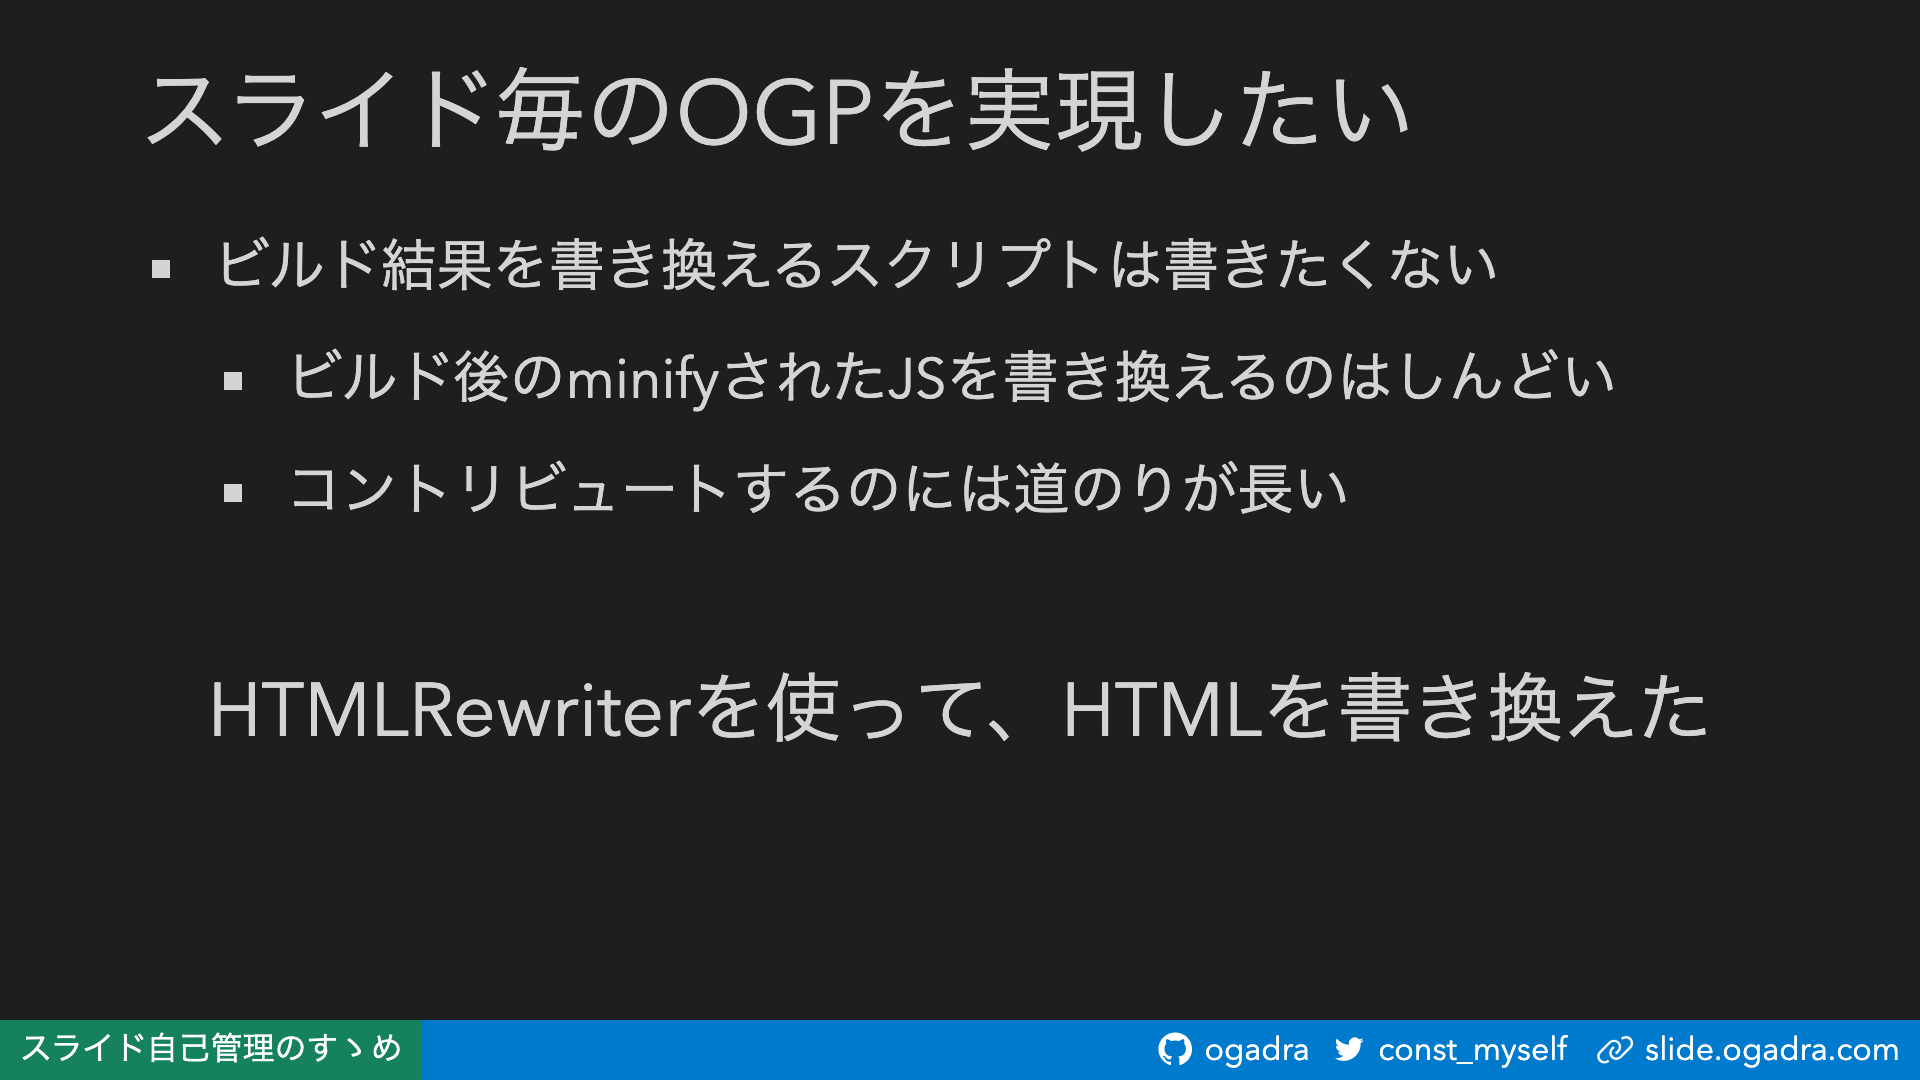
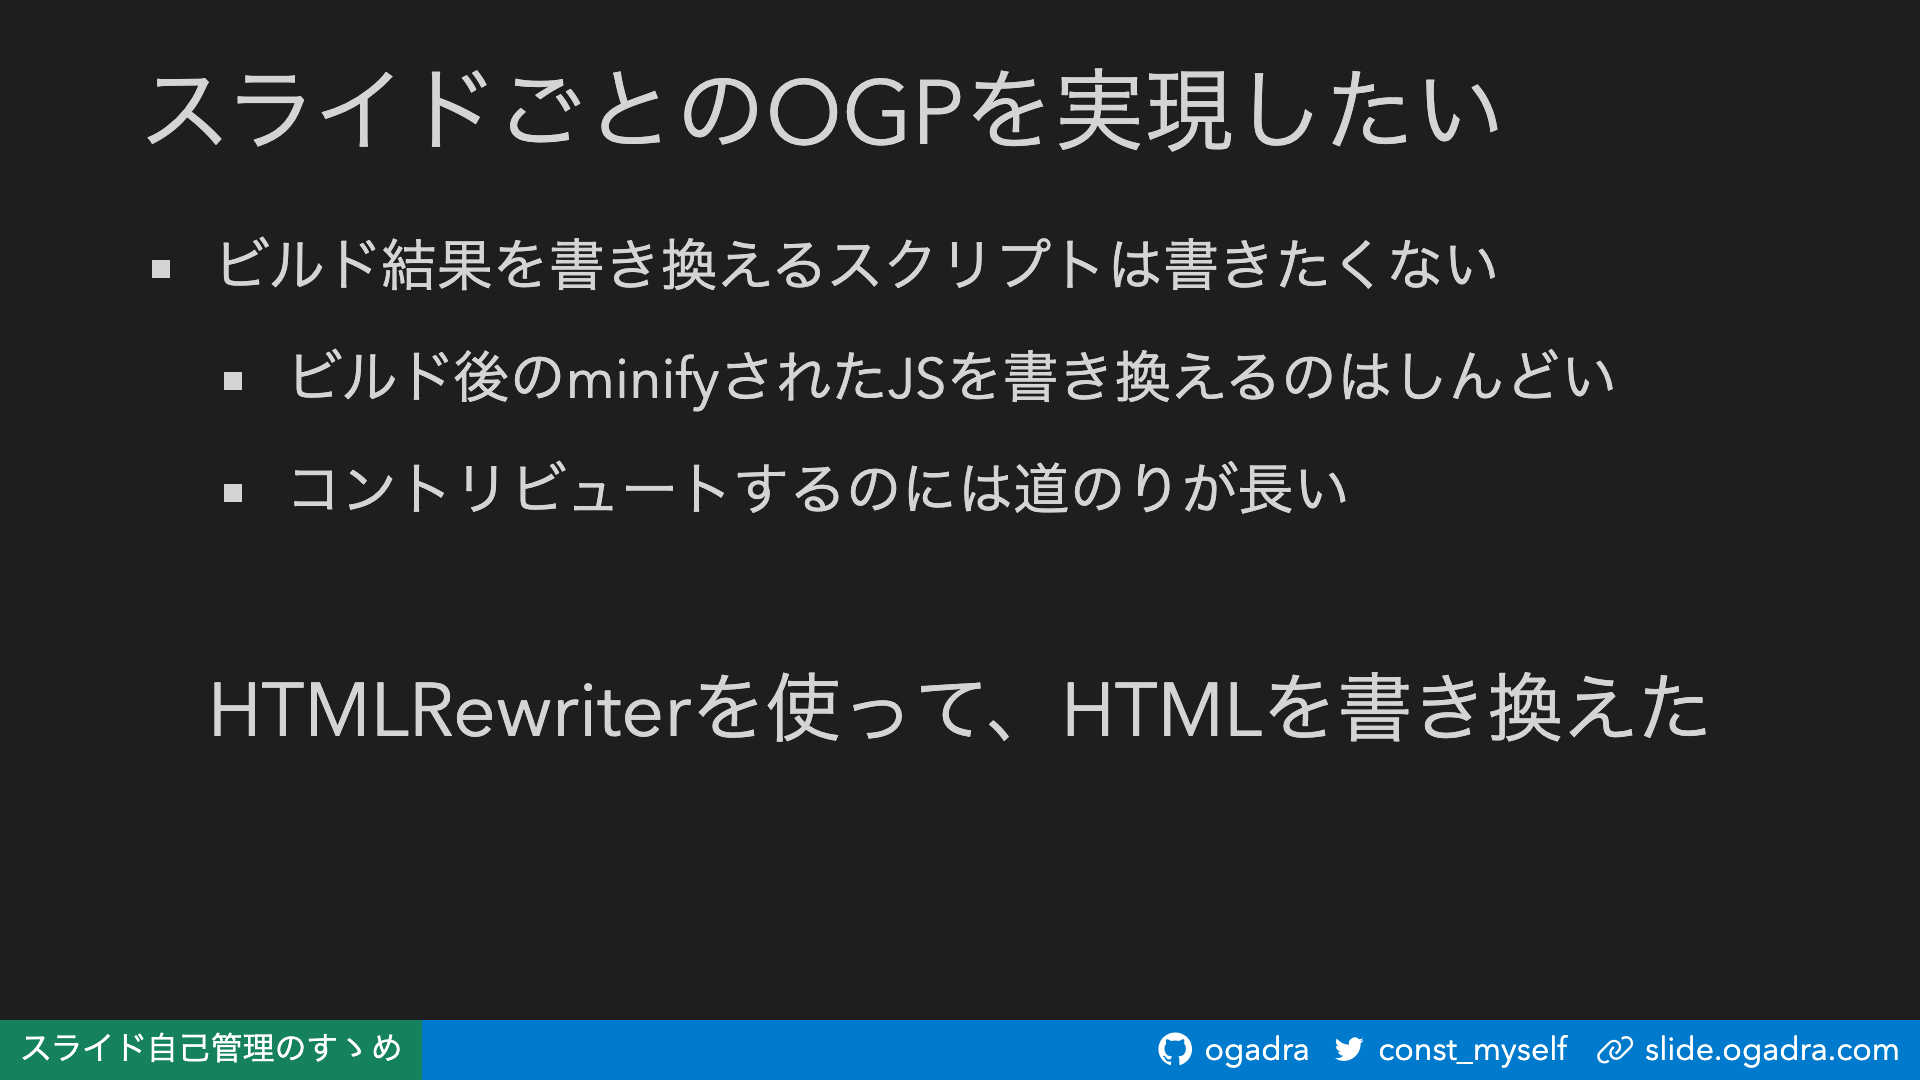
♻ Use ubiquitous language

Changed region(s): [[0.25, 0.0611, 0.7812, 0.1528]]

diff --git a/slidev/self-hosting-slides/slides.md b/slidev/self-hosting-slides/slides.md
@@ -81,11 +81,11 @@ https://slide.ogadra.com
 
 ---
 
-## 主な機能
+## 主な機能・特徴
 
 - 複数スライドをmonorepoで管理
 - mainブランチにマージしたら自動でデプロイ
-- スライド毎にOGPを設定
+- スライドごとにOGPを設定
 
 ---
 
@@ -119,11 +119,11 @@ reveal.jsだと
 
 ## Slidevでできないこと
 
-- ページごとのOGP設定
+- スライドごとのOGP設定
 
 ---
 
-## スライド毎のOGPを実現したい
+## スライドごとのOGPを実現したい
 
 - ビルド結果を書き換えるスクリプトは書きたくない
   - ビルド後のminifyされたJSを書き換えるのはしんどい
@@ -168,7 +168,7 @@ reveal.jsだと
 
 <!--
 - `/slidev`にスライドのソースコードを入れる
-  - ディレクトリ毎に`/dist`にビルドしたものを出力
+  - ディレクトリごとに`/dist`にビルドしたものを出力
 - `/home`にはエントリポイントである`server.ts`を配置
   - 各スライドへのルーティング
   - HTMLRewriterを用いたOGPの設定
@@ -179,7 +179,7 @@ reveal.jsだと
 ## ディレクトリ構成
 
 - `/slidev`にスライドのソースコードを入る
-  - ディレクトリ毎に`/dist`にビルドしたものを出力
+  - ディレクトリごとに`/dist`にビルドしたものを出力
 - `/home`にはエントリポイントである`server.ts`を配置
   - 各スライドへのルーティング
   - HTMLRewriterを用いたOGPの設定
